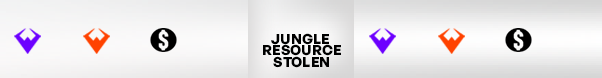
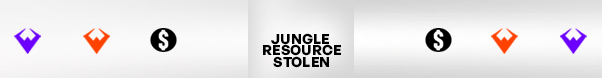
Adjusted
- Mirrored Jungle Stolen

diff --git a/html/dashboard.html b/html/dashboard.html
@@ -3881,6 +3881,31 @@
     { group: 'Kill Event', id: '#kill-event-sponsor-logo-clip', name: 'Sponsor Logo' },
   ];
 
+  /* ── Stolen Gold banner (mploverlay_v7.html) ───────────────────────
+     Six independent .sg-stat number boxes overlaid on the banner art
+     (ingame_stolenpng.png) — see the #stolengold-overlay CSS block in
+     mploverlay_v7.css. Own EDIT_CONFIG (not folded into the main
+     Scoreboard one above) because the banner is hidden by default —
+     showFn shows it with real/whatever data is available so the
+     numbers are actually visible to drag/resize, same pattern as Kill
+     Event Sponsor/Gold Graph Check above. */
+  var SG_DEFAULTS = {
+    '#sg-c1-purple': { left: 44,  top: 0, width: 38, height: 78, fontSize: 30 },
+    '#sg-c1-orange': { left: 111, top: 0, width: 38, height: 78, fontSize: 30 },
+    '#sg-c1-gold':   { left: 181, top: 0, width: 64, height: 78, fontSize: 30 },
+    '#sg-c2-purple': { left: 398, top: 0, width: 38, height: 78, fontSize: 30 },
+    '#sg-c2-orange': { left: 466, top: 0, width: 38, height: 78, fontSize: 30 },
+    '#sg-c2-gold':   { left: 535, top: 0, width: 63, height: 78, fontSize: 30 },
+  };
+  var SG_ELEMENTS = [
+    { group: 'Team 1', id: '#sg-c1-purple', name: 'Purple Buff Stolen (Team 1)' },
+    { group: 'Team 1', id: '#sg-c1-orange', name: 'Orange Buff Stolen (Team 1)' },
+    { group: 'Team 1', id: '#sg-c1-gold',   name: 'Jungle Gold Stolen (Team 1)' },
+    { group: 'Team 2', id: '#sg-c2-purple', name: 'Purple Buff Stolen (Team 2)' },
+    { group: 'Team 2', id: '#sg-c2-orange', name: 'Orange Buff Stolen (Team 2)' },
+    { group: 'Team 2', id: '#sg-c2-gold',   name: 'Jungle Gold Stolen (Team 2)' },
+  ];
+
   /* ── Gold Graph Check (mploverlay_v7.html) ─────────────────────────
      The 4 row markers are position-only references (top, no left/width/
      height) — ggcRowY() in overlay-goldgraphcheck.js reads each one's
@@ -5168,6 +5193,15 @@
       elements:    KILLEVENT_ELEMENTS,
       defaults:    KILLEVENT_DEFAULTS,
       showFn:      'previewKillEventSponsor',
+    },
+    mploverlay_v7_stolengold: {
+      label:       'Stolen Gold · mploverlay_v7',
+      file:        'mploverlay_v7.html',
+      styleFile:   'mploverlay_v7',
+      defaultsKey: 'sb_edit_defaults_mploverlay_v7_stolengold',
+      elements:    SG_ELEMENTS,
+      defaults:    SG_DEFAULTS,
+      showFn:      'sgAnimateIn',
     },
     mploverlay_v7_goldgraphcheck: {
       label:       'Gold Graph Check · mploverlay_v7',

diff --git a/server.js b/server.js
@@ -184,7 +184,7 @@ app.use(express.static(path.join(__dirname), {
   index: false,
   setHeaders: function(res, filePath) {
     const p = filePath.split(path.sep).join('/'); // normalize Windows backslashes for the checks below
-    if (p.endsWith('.html') || p.endsWith('.css') || p.includes('/html/js/') || p.endsWith('mainroster.json') || p.includes('/logos/') || p.includes('/photos/TALENTS/')) {
+    if (p.endsWith('.html') || p.endsWith('.css') || p.includes('/html/js/') || p.endsWith('mainroster.json') || p.includes('/logos/') || p.includes('/photos/TALENTS/') || p.includes('/assets/ingame/')) {
       res.setHeader('Cache-Control', 'no-cache, no-store, must-revalidate');
     }
   }
